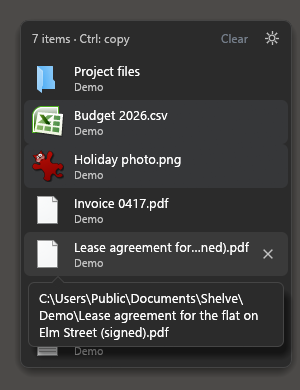
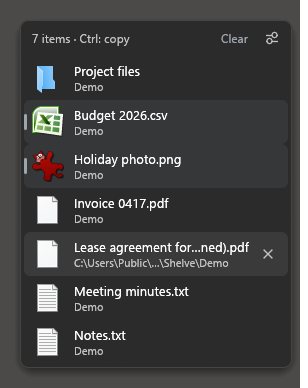
docs: new demo and screenshots for 0.5.0: path in the second line, picked-row stripe, sliders button

diff --git a/README.ru.md b/README.ru.md
@@ -26,7 +26,7 @@ In English: [README.md](README.md)
 
 ## Как пользоваться
 
-![Полка с семью файлами: две выделенные строки подсвечены, длинное имя сокращено в середине, а строка под мышью показывает путь к своей папке](docs/shelf.png)
+![Полка с семью файлами: у двух выделенных строк слева полоска акцента, длинное имя сокращено в середине, а строка под мышью показывает путь к своей папке](docs/shelf.png)
 
 - **Положить файл.** Тащите файл или папку к краю экрана (по умолчанию к правому) и бросьте на полку, когда она выедет. На пустой полке, пока файл над ней, рамка под рисунком полки заливается цветом акцента, а надпись «Отпустите, чтобы положить» из серой становится обычного цвета текста. `Ctrl+Alt+D` или «Показать/скрыть» в меню значка открывает полку и без перетаскивания. Новые строки встают в конец; несколько файлов, брошенных разом, выстраиваются как в Проводнике: сначала папки, потом по имени («скан_2» раньше «скан_10»), за какой бы файл вы их ни тащили. На длинной полке список сам прокручивается к ним. Слишком длинное имя сокращается в середине, а конец с расширением остаётся на виду: «Договор аренды (п…ный).pdf». Если задержать мышь на строке, во второй строке вместо имени папки появится путь к ней; у длинного пути пропадают папки в середине, а начало и последняя папка остаются: «C:\Users\admin\…\design\Пять». Соседние строки ничем не закрыты.
 - **Достать файл.** Перетащите строку левой кнопкой мыши в папку или на рабочий стол, и файл переедет туда. Строка уходит с полки, когда Проводник закончит перенос: обычно сразу, а для большого файла на другой диск, когда закончится копирование. Сам Shelve ничего не удаляет.

diff --git a/README.md b/README.md
@@ -20,7 +20,7 @@ Settings are kept in `%APPDATA%\shelve\config.json`. To remove Shelve, turn off 
 
 ## Use
 
-![The shelf with seven items: two picked rows are tinted, a long name is shortened in the middle, and the row under the mouse shows its folder path](docs/shelf.png)
+![The shelf with seven items: two picked rows have an accent stripe at the left, a long name is shortened in the middle, and the row under the mouse shows its folder path](docs/shelf.png)
 
 - **Put a file on it.** Drag a file or a folder to the screen edge (the right one by default) and drop it on the shelf when it slides out. On an empty shelf the frame under the shelf drawing fills with the accent colour while the file is over it, and "Drop to add" turns from grey to the normal text colour. `Ctrl+Alt+D` or "Show/hide" in the tray menu opens the shelf without dragging anything. New rows go to the end; several files dropped at once line up as in Explorer, folders first, then by name ("scan_2" before "scan_10"), whichever one you grabbed. On a long shelf the list scrolls down to them. A name too long for its row is shortened in the middle, so its end with the extension stays in sight: "Lease agreement (s…ned).pdf". Rest the mouse on the row and its second line shows the whole folder path instead of the folder name; a long path loses folders in the middle and keeps its start and the last folder: "C:\Users\admin\…\design\Five". Nothing covers the rows next to it.
 - **Take a file off it.** Drag a row into a folder or onto the desktop with the left mouse button and the file moves there. Its row leaves the shelf once Explorer has finished moving it: usually at once, for a big file going to another drive when the copying is done. Shelve itself never deletes anything.
